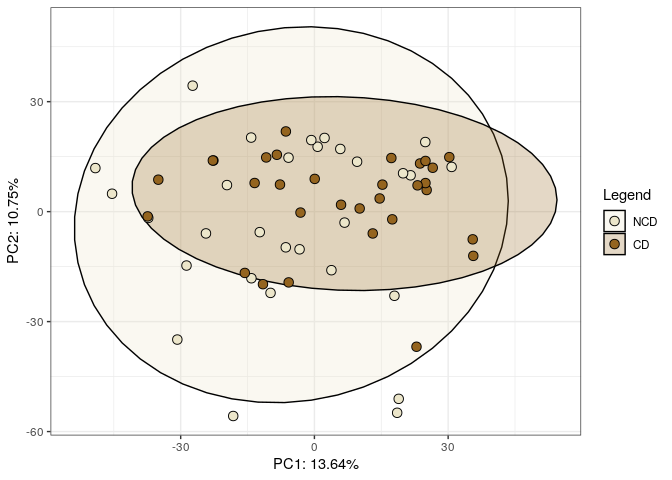
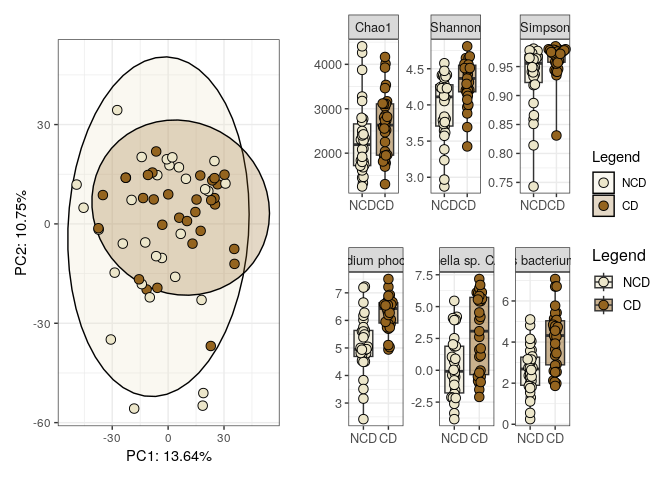
update

diff --git a/README.md b/README.md
@@ -65,19 +65,13 @@ source("scripts/ex1_baseline_differences_CD_vs_NCD.R")
 ![](README_files/figure-gfm/unnamed-chunk-1-1.png)<!-- -->
 
 ``` r
-ex1pca
+ex1pca + ex1alpha / ex1DA + plot_layout(guides = 'collect')
 ```
 
 ![](README_files/figure-gfm/unnamed-chunk-2-1.png)<!-- -->
 
 ``` r
-ex1alpha
+ex1DA_metab
 ```
 
 ![](README_files/figure-gfm/unnamed-chunk-2-2.png)<!-- -->
-
-``` r
-ex1DA
-```
-
-![](README_files/figure-gfm/unnamed-chunk-2-3.png)<!-- -->
